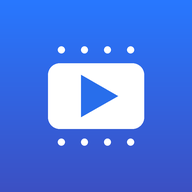
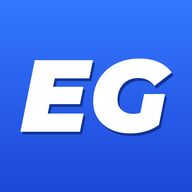
Add files via upload

diff --git a/index.html b/index.html
@@ -1,6 +1,6 @@
 <!doctype html><html lang="ko"><head><meta charset="utf-8">
 <meta name="viewport" content="width=device-width,initial-scale=1,viewport-fit=cover">
-<meta name="theme-color" content="#000000"><title>Walk</title>
+<meta name="theme-color" content="#000000"><title>이글</title>
 <link rel="manifest" href="manifest.webmanifest"><link rel="icon" href="icon-192.png"><link rel="apple-touch-icon" href="icon-192.png">
 <style>
 html,body{height:100%;margin:0;background:#000;color:#f2f2f4;font:15px/1.5 'SamsungOne','One UI Sans','Noto Sans KR',system-ui,sans-serif}
@@ -11,7 +11,7 @@ input{width:100%;box-sizing:border-box;height:48px;border:0;outline:0;border-rad
 button{width:100%;height:50px;margin-top:10px;border:0;border-radius:18px;background:#3e91ff;color:#fff;font:inherit;font-weight:600}
 #err{color:#ff8f8f;min-height:22px;margin-top:8px}
 </style></head><body>
-<div id="box"><img src="icon-192.png" alt=""><h1>Walk 연결</h1>
+<div id="box"><img src="icon-192.png" alt=""><h1>이글 연결</h1>
 <p>처음 한 번만 Apps Script 웹 앱 주소를 붙여 넣습니다. 주소는 이 폰에만 저장됩니다.</p>
 <input id="u" placeholder="https://script.google.com/macros/s/…/exec" inputmode="url" autocomplete="off">
 <button id="go">저장하고 열기</button><div id="err"></div></div>
@@ -23,7 +23,7 @@ button{width:100%;height:50px;margin-top:10px;border:0;border-radius:18px;backgr
  var standalone=matchMedia('(display-mode: standalone)').matches;
  if(ok(u)&&standalone){location.replace(u);return}
  var box=document.getElementById('box'),inp=document.getElementById('u'),err=document.getElementById('err');box.style.display='block';inp.value=u;
- if(ok(u)){document.querySelector('p').textContent='주소가 저장되어 있습니다. 크롬 메뉴(⋮)에서 "앱 설치"를 누르면 홈 화면에 Walk 아이콘이 생깁니다.';document.getElementById('go').textContent='지금 열기'}
+ if(ok(u)){document.querySelector('p').textContent='주소가 저장되어 있습니다. 크롬 메뉴(⋮)에서 "앱 설치"를 누르면 홈 화면에 이글 아이콘이 생깁니다.';document.getElementById('go').textContent='지금 열기'}
  document.getElementById('go').onclick=function(){var v=inp.value.trim();if(!ok(v)){err.textContent='script.google.com 으로 시작해 /exec 로 끝나는 주소를 넣어 주세요.';return}
   try{localStorage.setItem(K,v)}catch(e){}
   if(standalone)location.replace(v);else location.reload()}})();
